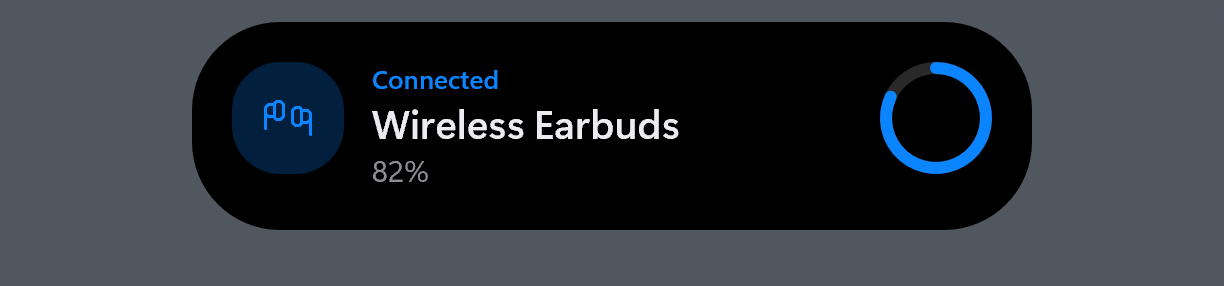
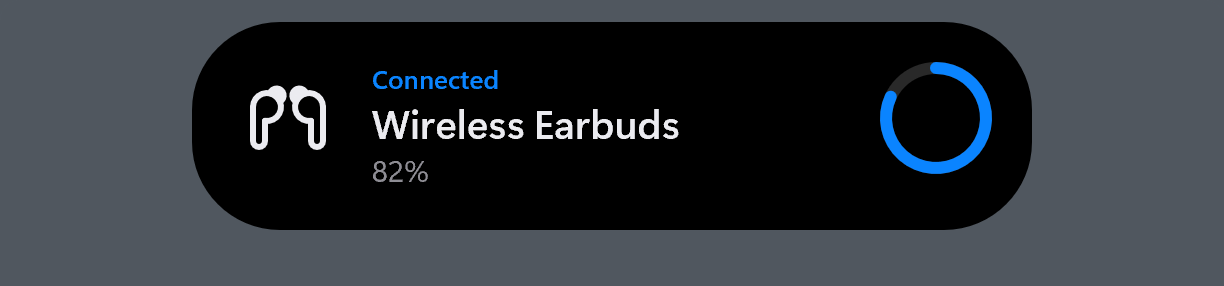
Settings: the Devices preview draws ReUI's earbuds as the island does
The device drawings' bytes move from the hub's art.rs into
reui_design::devices, one copy for the hub (which sends them as
Art::Logo) and Settings. The preview now draws the full earbuds drawing
bare in the card's 56 spot, whole DIPs of opacity.logo-bare, in the
label ink, on the pixel grid, instead of the Fluent glyph tile. The
Painter's SVG path takes an optional ink (tinted as the island tints)
and caches by markup, size and ink. art.rs keeps its API, families and
tests. README images regenerated.

Changed region(s): [[0.1863, 0.1958, 0.2794, 0.6154]]

diff --git a/crates/reui-hub/src/modules/devices/art.rs b/crates/reui-hub/src/modules/devices/art.rs
@@ -5,42 +5,14 @@
 //! too and resolve to their kind's drawing, so the family mapping can name the family now
 //! and get its own drawing later without a change here beyond the table.
 //!
-//! The SVG is single-colour (`stroke="currentColor"`): a module sends it as
+//! The bytes live in `reui_design::devices`, so Settings' Devices preview draws the very
+//! same drawings. The SVG is single-colour (`stroke="currentColor"`): a module sends it as
 //! `Art::Logo { image: ctx.image(svg.to_vec()), animated: false }` and the island inks it
 //! in the label colour of its theme, so dark and light need no extra assets. `small` picks
 //! the simplified drawing for the compact pill (24 DIP); the other is for the open card's
 //! 56 DIP tile.
 
-/// One drawing at both detail levels.
-struct Art {
-    id: &'static str,
-    full: &'static [u8],
-    small: &'static [u8],
-}
-
-macro_rules! art {
-    ($id:literal) => {
-        Art {
-            id: $id,
-            full: include_bytes!(concat!("../../../../../design/assets/devices/", $id, ".svg")),
-            small: include_bytes!(concat!("../../../../../design/assets/devices/", $id, "-small.svg")),
-        }
-    };
-}
-
-/// Every kind with a drawing. `bluetooth` is the fallback for a device of unknown kind.
-const KINDS: [Art; 10] = [
-    art!("earbuds"),
-    art!("headphones"),
-    art!("speaker"),
-    art!("gamepad"),
-    art!("mouse"),
-    art!("keyboard"),
-    art!("pen"),
-    art!("watch"),
-    art!("phone"),
-    art!("bluetooth"),
-];
+use reui_design::devices;
 
 /// Model families and the kind they're drawn as. Brand silhouettes were left out on
 /// purpose: one quiet drawing per kind reads better at 24 DIP than eleven near-alike ones.
@@ -62,13 +34,13 @@ const FAMILIES: [(&str, &str); 11] = [
 /// `None` for an id without a drawing (the caller keeps its Fluent glyph).
 pub fn svg(id: &str, small: bool) -> Option<&'static [u8]> {
     let kind = FAMILIES.iter().find(|(family, _)| *family == id).map_or(id, |(_, kind)| kind);
-    let art = KINDS.iter().find(|a| a.id == kind)?;
-    Some(if small { art.small } else { art.full })
+    devices::svg(kind, small)
 }
 
 #[cfg(test)]
 mod tests {
     use super::*;
+    use reui_design::devices::KINDS;
 
     fn text(bytes: &[u8]) -> &str {
         std::str::from_utf8(bytes).expect("UTF-8")
@@ -76,21 +48,21 @@ mod tests {
 
     #[test]
     fn every_kind_has_both_drawings() {
-        for art in &KINDS {
+        for id in KINDS {
             for small in [false, true] {
-                let svg = text(svg(art.id, small).unwrap_or_else(|| panic!("{} small={small}", art.id)));
-                assert!(svg.starts_with("<svg xmlns=\"http://www.w3.org/2000/svg\""), "{}: an SVG root first", art.id);
-                assert!(svg.trim_end().ends_with("</svg>"), "{}", art.id);
+                let svg = text(svg(id, small).unwrap_or_else(|| panic!("{id} small={small}")));
+                assert!(svg.starts_with("<svg xmlns=\"http://www.w3.org/2000/svg\""), "{id}: an SVG root first");
+                assert!(svg.trim_end().ends_with("</svg>"), "{id}");
                 // The island inks the drawing; a colour of its own would ignore the theme.
-                assert!(!svg.contains('#'), "{}: no colours of its own", art.id);
-                assert!(svg.contains("currentColor"), "{}", art.id);
+                assert!(!svg.contains('#'), "{id}: no colours of its own");
+                assert!(svg.contains("currentColor"), "{id}");
                 // The grid the drawing is made on (see design/assets/devices/README.md).
                 let grid = if small { "viewBox=\"0 0 21 21\"" } else { "viewBox=\"0 0 48 48\"" };
-                assert!(svg.contains(grid), "{} small={small}: on its grid", art.id);
+                assert!(svg.contains(grid), "{id} small={small}: on its grid");
                 // Images go over the pipe once per surface; these are a few hundred bytes.
-                assert!((100..4096).contains(&svg.len()), "{}: {} bytes", art.id, svg.len());
+                assert!((100..4096).contains(&svg.len()), "{id}: {} bytes", svg.len());
             }
-            assert_ne!(art.full, art.small, "{}: two detail levels", art.id);
+            assert_ne!(svg(id, false), svg(id, true), "{id}: two detail levels");
         }
     }
 
@@ -100,7 +72,7 @@ mod tests {
         assert_eq!(svg("airpods-max", true), svg("headphones", true));
         assert_eq!(svg("dualsense", false), svg("gamepad", false));
         for (family, kind) in FAMILIES {
-            assert!(KINDS.iter().any(|a| a.id == kind), "{family} → {kind}");
+            assert!(KINDS.contains(&kind), "{family} → {kind}");
             assert!(svg(family, true).is_some(), "{family}");
         }
     }

diff --git a/crates/reui-settings/src/render/shapes.rs b/crates/reui-settings/src/render/shapes.rs
@@ -1,6 +1,7 @@
 //! Painter primitives beyond fills and text: the cached bitmaps that let scrolling move
 //! the page without recording it again, the island stage's backdrop (the wallpaper's top
-//! centre), polygons, lines and arcs for the previews, and the Claude mark (SVG).
+//! centre), polygons, lines and arcs for the previews, and SVG marks (the Claude logo, the
+//! device drawings).
 
 use reui_design::Color;
 use windows::core::{Interface, Result};
@@ -224,13 +225,32 @@ impl Painter<'_> {
 
     /// The Claude logo filling `r` (square), in its own colours.
     pub fn claude(&self, r: Rect) -> Result<()> {
+        self.svg(CLAUDE_SVG, r, None)
+    }
+
+    /// Single-colour line art (`currentColor`, e.g. a device drawing) filling `r`
+    /// (square) in `ink`, as the island inks an `Art::Logo`. Its top-left lands on a
+    /// pixel, so art drawn on a whole-unit grid keeps its straight edges crisp.
+    pub fn line_art(&self, svg: &'static str, r: Rect, ink: Color) -> Result<()> {
+        self.svg(svg, r, Some(ink))
+    }
+
+    /// `svg` filling `r` (square): in its own colours, or tinted `ink` (with the painter's
+    /// alpha) the way the island's `render/images.rs` `tinted` does. Documents are cached
+    /// by markup, size and ink.
+    fn svg(&self, svg: &'static str, r: Rect, ink: Option<Color>) -> Result<()> {
         let size = r.w();
-        let key = size.to_bits();
+        let ink = ink.map(|c| c.with_alpha(c.a * self.alpha.get()));
+        let key = (svg.as_ptr() as usize, size.to_bits(), ink.map(Color::to_rgba8));
         let cached = self.r.device.svgs.borrow().get(&key).cloned();
         let document = match cached {
             Some(d) => d,
             None => unsafe {
-                let Some(stream) = SHCreateMemStream(Some(fit_svg(CLAUDE_SVG).as_bytes())) else { return Ok(()) };
+                let text = match ink {
+                    Some(c) => tinted(&fit_svg(svg), c),
+                    None => fit_svg(svg),
+                };
+                let Some(stream) = SHCreateMemStream(Some(text.as_bytes())) else { return Ok(()) };
                 let d = self.dc.CreateSvgDocument(&stream, D2D_SIZE_F { width: size, height: size })?;
                 self.r.device.svgs.borrow_mut().insert(key, d.clone());
                 d
@@ -239,12 +259,24 @@ impl Painter<'_> {
         unsafe {
             let mut previous = Matrix3x2::default();
             self.dc.GetTransform(&mut previous);
-            self.dc.SetTransform(&(Matrix3x2::translation(r.l, r.t) * previous));
+            // The top-left on the pixel grid, wherever the previews' transform put it.
+            let (x, y) = (self.snap(previous.M11 * r.l + previous.M31), self.snap(previous.M22 * r.t + previous.M32));
+            self.dc.SetTransform(&Matrix3x2 { M31: x, M32: y, ..previous });
             self.dc.DrawSvgDocument(&document);
             self.dc.SetTransform(&previous);
         }
         Ok(())
     }
+}
+
+/// The SVG with `color` as its ink: the root `fill` for marks drawn as shapes and the
+/// root `color` for line art's `currentColor`, opacities from its alpha. As the island's
+/// `tinted`, so a preview's mark matches the island's.
+fn tinted(text: &str, color: Color) -> String {
+    let [r, g, b, _] = color.to_rgba8();
+    let hex = format!("#{r:02X}{g:02X}{b:02X}");
+    let a = color.a;
+    text.replacen("<svg", &format!("<svg fill=\"{hex}\" color=\"{hex}\" fill-opacity=\"{a}\" stroke-opacity=\"{a}\""), 1)
 }
 
 /// A `w` × `h` rectangle at the origin with its top corners rounded.

diff --git a/crates/reui-settings/src/render/preview/devices.rs b/crates/reui-settings/src/render/preview/devices.rs
@@ -1,17 +1,19 @@
-//! Devices: earbuds just connected (`reui-hub/src/modules/devices/view.rs`, `connect_view`):
-//! the earbuds' glyph tile, "Connected" → the name → the battery, and the battery's ring
-//! at the right. Its accent is the look's (red only when the battery is low).
+//! Devices: earbuds just connected (`reui-hub/src/modules/devices/view.rs`, `connect_view`,
+//! with the `Mark` `peripherals.rs` makes): ReUI's earbuds drawing bare in the leading
+//! spot, "Connected" → the name → the battery, and the battery's ring at the right. Its
+//! accent is the look's (red only when the battery is low).
 
+use reui_design::devices;
 use reui_design::look::Look;
-use reui_design::tokens::component;
+use reui_design::tokens::{component, opacity};
 use windows::core::Result;
 
-use super::parts::{glyph_tile, ring, Card, Hero};
+use super::parts::{ring, Card, Hero};
 use crate::render::Painter;
+use crate::ui::layout::Rect;
 use crate::ui::stage;
 use crate::ui::Moment;
 
-const EARBUDS: char = '\u{F4C0}';
 const BATTERY: f32 = 0.82;
 
 pub fn draw(p: &Painter, look: &Look, e: f32) -> Result<()> {
@@ -23,7 +25,12 @@ pub fn draw(p: &Painter, look: &Look, e: f32) -> Result<()> {
     let (lead, trail) = (component::art::EXPANDED, component::ring::EXPANDED);
     let (left, text_w) = c.columns(lead, trail);
     let (mid, text_top) = (open.header.mid, open.header.text_top);
-    glyph_tile(p, look, c.radius, false, EARBUDS, inset, mid - lead / 2.0, look.accent)?;
+    // The full drawing as the island draws an `Art::Logo` in the card's spot
+    // (`render/images.rs`): bare, whole DIPs of `opacity.logo-bare`, in the label ink.
+    let earbuds = std::str::from_utf8(devices::svg("earbuds", false).expect("the earbuds drawing")).expect("UTF-8");
+    let mark = (lead * opacity::LOGO_BARE).round();
+    let top = mid - lead / 2.0;
+    p.line_art(earbuds, Rect::at(inset + (lead - mark) / 2.0, top + (lead - mark) / 2.0, mark, mark), look.palette.label_primary)?;
     ring(p, look, width - inset - trail / 2.0, mid, trail, component::ring::STROKE_EXPANDED, BATTERY * e, look.accent)?;
     c.text(&open.text, left, text_top, text_w, "Connected", Hero::Text("Wireless Earbuds"), &format!("{}%", (BATTERY * 100.0).round()))
 }

diff --git a/crates/reui-design/src/devices.rs b/crates/reui-design/src/devices.rs
@@ -1,0 +1,55 @@
+//! ReUI's own line drawings of devices (`design/assets/devices/`), one per kind, as bytes.
+//!
+//! Here rather than in the hub so there's one copy of them: the hub sends them to the
+//! island as `Art::Logo` (`reui-hub/src/modules/devices/art.rs`, which also maps model
+//! families to kinds), and Settings draws the same bytes in its Devices preview. Each is
+//! single-colour (`currentColor`): whoever draws it sets the ink.
+
+/// One drawing at both detail levels: `full` for the open card's 56 DIP spot (48 grid),
+/// `small` for the compact pill's 24 DIP spot (21 grid).
+struct Drawing {
+    kind: &'static str,
+    full: &'static [u8],
+    small: &'static [u8],
+}
+
+macro_rules! drawing {
+    ($kind:literal) => {
+        Drawing {
+            kind: $kind,
+            full: include_bytes!(concat!("../../../design/assets/devices/", $kind, ".svg")),
+            small: include_bytes!(concat!("../../../design/assets/devices/", $kind, "-small.svg")),
+        }
+    };
+}
+
+const DRAWINGS: [Drawing; 10] = [
+    drawing!("earbuds"),
+    drawing!("headphones"),
+    drawing!("speaker"),
+    drawing!("gamepad"),
+    drawing!("mouse"),
+    drawing!("keyboard"),
+    drawing!("pen"),
+    drawing!("watch"),
+    drawing!("phone"),
+    drawing!("bluetooth"),
+];
+
+/// Every kind with a drawing. `bluetooth` is the fallback for a device of unknown kind.
+pub const KINDS: [&str; 10] = {
+    let mut kinds = [""; 10];
+    let mut i = 0;
+    while i < kinds.len() {
+        kinds[i] = DRAWINGS[i].kind;
+        i += 1;
+    }
+    kinds
+};
+
+/// The SVG for `kind` (exact id), simplified for the compact pill when `small`; `None`
+/// for a kind without a drawing.
+pub fn svg(kind: &str, small: bool) -> Option<&'static [u8]> {
+    let d = DRAWINGS.iter().find(|d| d.kind == kind)?;
+    Some(if small { d.small } else { d.full })
+}

diff --git a/crates/reui-settings/src/render/mod.rs b/crates/reui-settings/src/render/mod.rs
@@ -46,6 +46,10 @@ pub struct Renderer {
     dpi: f32,
 }
 
+/// An SVG document's cache key: its markup (by address: the marks are `'static`), its
+/// size's bits and its ink (none: its own colours).
+type SvgKey = (usize, u32, Option<[u8; 4]>);
+
 /// Resources tied to the GPU device: made again when it's lost.
 #[derive(Default)]
 struct Device {
@@ -55,7 +59,7 @@ struct Device {
     shapes: RefCell<HashMap<[u32; 3], ID2D1PathGeometry>>,
     /// The page and the sidebar as last drawn ([`Slot`]), and their sizes in pixels.
     cache: RefCell<[Option<(ID2D1Bitmap1, u32, u32)>; 2]>,
-    svgs: RefCell<HashMap<u32, ID2D1SvgDocument>>,
+    svgs: RefCell<HashMap<SvgKey, ID2D1SvgDocument>>,
     /// The wallpaper strip ([`crate::wallpaper`]) as uploaded, and which read it is.
     wallpaper: RefCell<Option<(u64, ID2D1BitmapBrush1)>>,
 }

diff --git a/crates/reui-design/src/lib.rs b/crates/reui-design/src/lib.rs
@@ -2,6 +2,7 @@
 //! every token into a typed constant under [`tokens`], e.g. `tokens::color::label::PRIMARY`.
 //! See `DESIGN.md` for what each token is for. Built on them: [`look`] (the user's
 //! appearance resolved) and [`layout`] (the island's geometry), shared by every surface.
+//! Also [`devices`]: the device drawings' bytes, one copy for the hub and Settings.
 
 /// Straight (non-premultiplied) sRGB, channels 0..=1.
 #[derive(Clone, Copy, Debug, PartialEq)]
@@ -44,6 +45,7 @@ pub struct Spring {
     pub period_ms: f32,
 }
 
+pub mod devices;
 pub mod icon;
 pub mod layout;
 pub mod look;

diff --git a/design/assets/devices/README.md b/design/assets/devices/README.md
@@ -19,7 +19,7 @@ One drawing per **kind** of device, not per brand or model: it says what the dev
 | `phone` | A phone |
 | `bluetooth` | The fallback for a device of unknown kind |
 
-`crates/reui-hub/src/modules/devices/art.rs` looks them up (`art::svg(id, small)`). It also accepts the model-family ids the device catalog uses (`airpods`, `airpods-pro`, `airpods-max`, `beats-earbuds`, `beats-headphones`, `galaxy-buds`, `headset`, `xbox-controller`, `dualsense`, `dualshock`, `switch-pro`) and gives each its kind's drawing. Brand silhouettes aren't drawn: at 24 DIP they'd blur into each other, and the kind is what the moment needs.
+`crates/reui-design/src/devices.rs` embeds them, once for the hub and Settings (whose Devices preview draws the earbuds as the island does), and `crates/reui-hub/src/modules/devices/art.rs` looks them up (`art::svg(id, small)`). It also accepts the model-family ids the device catalog uses (`airpods`, `airpods-pro`, `airpods-max`, `beats-earbuds`, `beats-headphones`, `galaxy-buds`, `headset`, `xbox-controller`, `dualsense`, `dualshock`, `switch-pro`) and gives each its kind's drawing. Brand silhouettes aren't drawn: at 24 DIP they'd blur into each other, and the kind is what the moment needs.
 
 ## Two detail levels
 
@@ -42,7 +42,7 @@ Rules, so the set reads as one family with the Segoe Fluent glyphs the island us
 ## Adding a kind
 
 1. Draw `<id>.svg` on the 48 grid and `<id>-small.svg` on the 21 grid by the rules above, in the same markup as the others (one `<g>` with the stroke attributes, then plain shapes).
-2. Add it to `KINDS` in `art.rs` (and any family ids to `FAMILIES`); its tests check every file is present, on its grid, single-colour and small.
+2. Add it to `DRAWINGS` in `crates/reui-design/src/devices.rs` (and any family ids to `FAMILIES` in `art.rs`); `art.rs`'s tests check every file is present, on its grid, single-colour and small.
 3. Add it to the contact sheet (`KINDS` in `crates/reui-island/src/render/sheet.rs`) and look at it beside the others: `cargo test -p reui-island device_art_sheet -- --ignored` writes `target/devices-art/`: each kind in a compact pill and an open card, dark and light, at 100 % and 200 %, and a magnified sheet of every drawing at its exact pixel size beside the Fluent glyph at the same size.
 
 ## Device colour

diff --git a/ARCHITECTURE.md b/ARCHITECTURE.md
@@ -22,7 +22,7 @@ reui-settings.exe  the Settings window, opened from the tray; single instance
 | Crate | Job |
 |---|---|
 | `reui-protocol` | Wire types: `Activity`, presentations (compact, minimal, expanded), rows, priorities, actions; postcard framing. Also `version` (semver comparison for update.json) and `install` (the lines `reui-settings --install-update` prints) |
-| `reui-design` | `design/tokens.json` compiled into constants at build time (plus a `Palette` per theme); `look.rs` turns the Appearance settings into a `Look` (palette, radii, insets, the concentric maths) for the island and Settings' previews alike; `layout/` is the island's geometry over that `Look` (compact pill and bubble, the expanded header, every row, the card row, gauges and their sparklines, each card's width and height, the view switcher), pure and tested, which both lay out with; `icon.rs` turns `design/logo/reui.ico` into the icon resource every program's `build.rs` links in |
+| `reui-design` | `design/tokens.json` compiled into constants at build time (plus a `Palette` per theme); `look.rs` turns the Appearance settings into a `Look` (palette, radii, insets, the concentric maths) for the island and Settings' previews alike; `layout/` is the island's geometry over that `Look` (compact pill and bubble, the expanded header, every row, the card row, gauges and their sparklines, each card's width and height, the view switcher), pure and tested, which both lay out with; `icon.rs` turns `design/logo/reui.ico` into the icon resource every program's `build.rs` links in; `devices.rs` holds the device drawings' bytes (`design/assets/devices/`), one copy for the hub (which sends them) and Settings' Devices preview |
 | `reui-hub` | Feature modules and the hub that orders their activities |
 | `reui-island` | The island window: Windows.UI.Composition + Direct2D/DirectWrite |
 | `reui-bridge` | Hook entry point for coding agents (`main.rs`; `parents.rs`: its parent process chain, sent for "Open terminal"), the hook installer (`install.rs`), and the OpenCode plugin it installs (`opencode-plugin.js`, tested by `tools/opencode-plugin-test.mjs`) |
